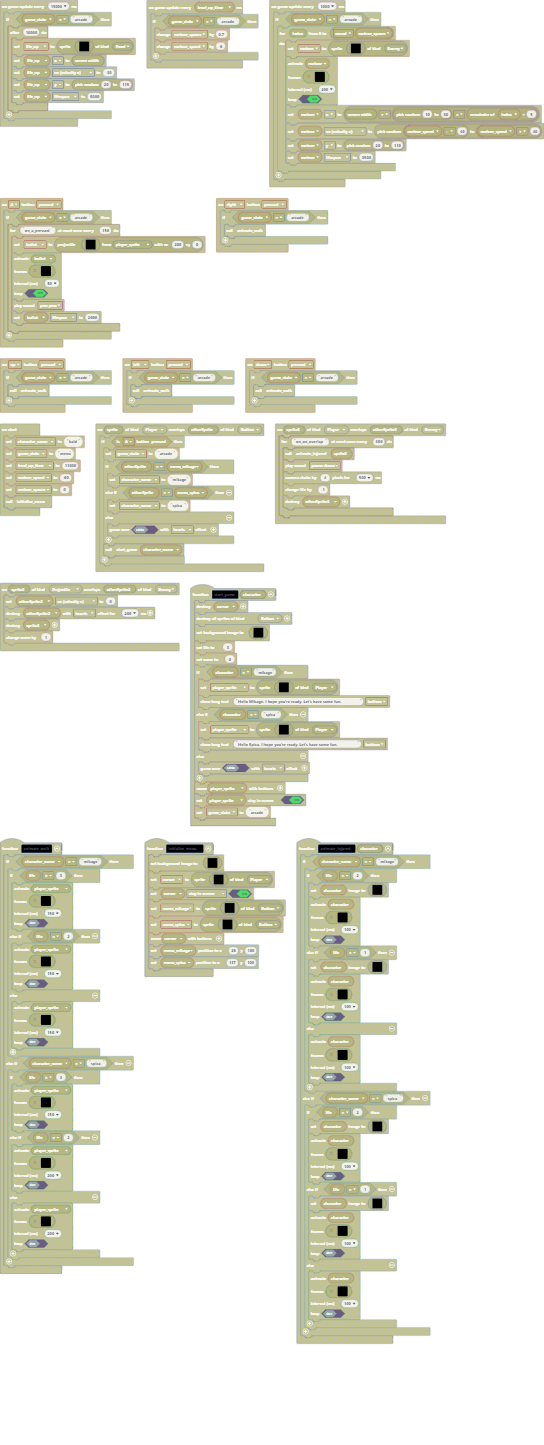
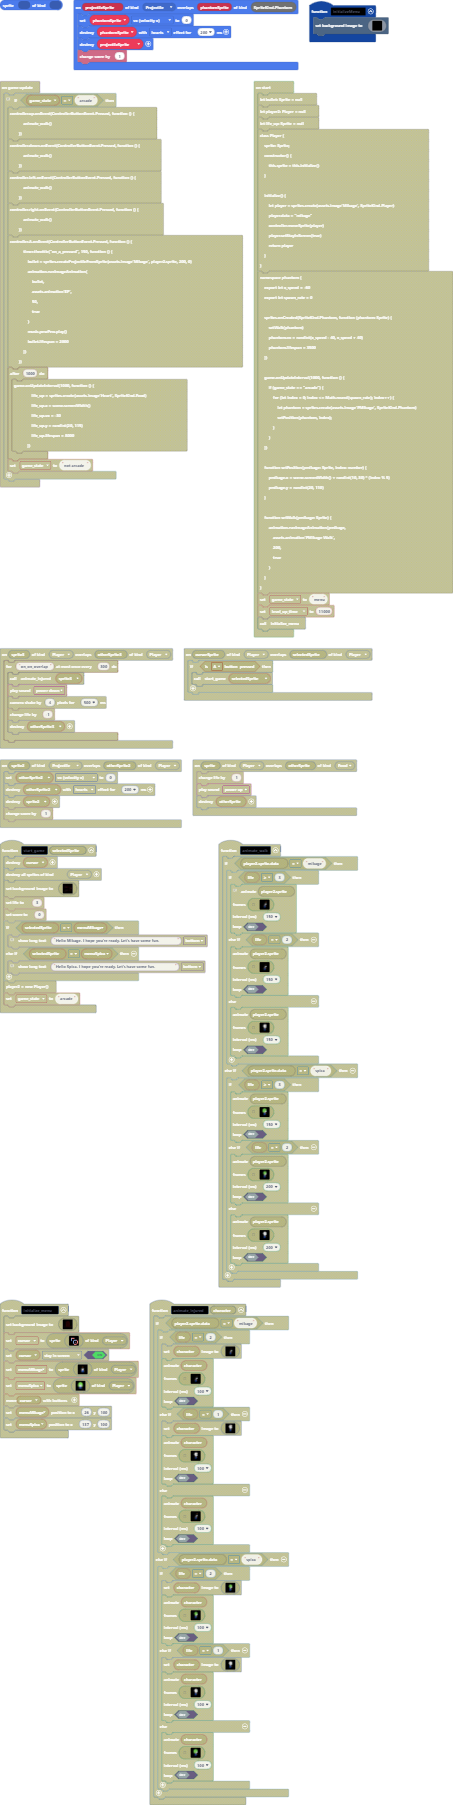
tomo death sprite

diff --git a/images.g.ts b/images.g.ts
@@ -7864,6 +7864,134 @@ ffffffffffffffffffffffffffffffffffffffffffffffffffffffffffffffffffffffffffffffff
 .........................
 .........................
 `];
+            case "TomoDeath2":
+            case "anim37":return [img`
+....................
+....................
+....................
+..........8.........
+........8838........
+.......83338........
+.......83338........
+.......833338.......
+.......8883338......
+......83333338......
+.....833113338......
+.....833113338......
+....83311133338.....
+....83111113338.....
+....83111111338.....
+....83111111138.....
+.....831111118......
+......8333338.......
+.......88888........
+....................
+`, img`
+....................
+....................
+........8888........
+.......833338.......
+........888338......
+...........838......
+........888838......
+.......833388.......
+......83338.........
+.....833338.........
+.....8333338........
+.....8333338........
+......8333138.......
+......8311138.......
+......8311138.......
+......8311138.......
+......8311138.......
+.......83338........
+........888.........
+....................
+`, img`
+....................
+....................
+....................
+.......888..........
+......83338.........
+.......888..........
+....................
+....................
+....................
+.......8............
+......83888.........
+......833338........
+......833338........
+......8333338.......
+......8311138.......
+......8311138.......
+.......83338........
+.......83338........
+........888.........
+....................
+`, img`
+....................
+....................
+....................
+....................
+....................
+....................
+....................
+....................
+....................
+......888888........
+.....83333338.......
+......8333338.......
+......8333338.......
+.....833333338......
+.....831111338......
+.....831111138......
+......8333338.......
+......8333338.......
+.......88888........
+....................
+`, img`
+....................
+....................
+....................
+....................
+....................
+....................
+........8888........
+.......833338.......
+......8333338.......
+.....833333338......
+......88333338......
+.......8333338......
+......83111338......
+.....831111138......
+.....831111138......
+.....833111338......
+.....833111338......
+......8333338.......
+.......88888........
+....................
+`, img`
+....................
+....................
+....................
+...........8........
+........88838.......
+.......83338........
+.......83338........
+......833338........
+......8333338.......
+.......88833388.....
+......8333113338....
+......8333113338....
+.....83111113338....
+.....83111111338....
+.....83111111338....
+.....8331113388.....
+.....833111338......
+......8333338.......
+.......88888........
+....................
+`];
         }
         return null;
     })
